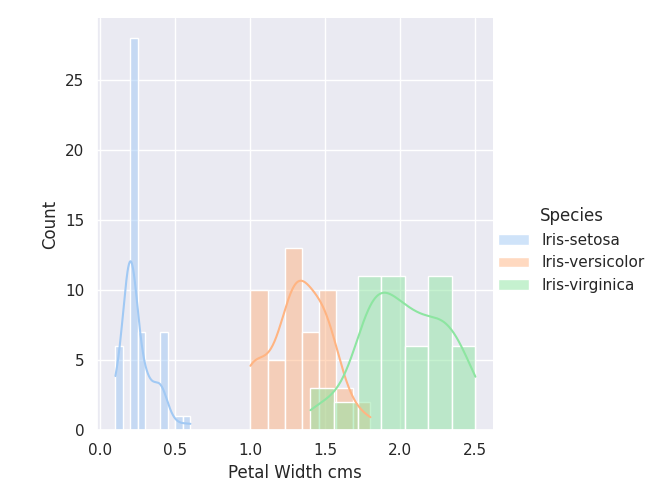
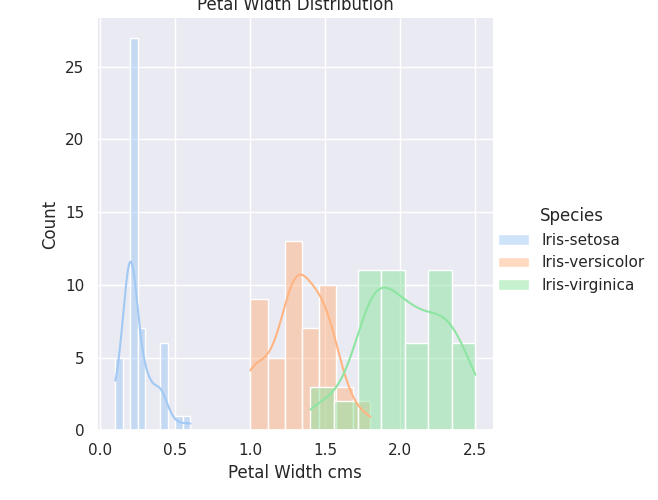
Boxplot outliers example

diff --git a/analysis.py b/analysis.py
@@ -2,6 +2,9 @@
 # Author: Sean Humphreys
 # Script to read in and analyse the IRIS data set
 
+
+# # # # # Import Required Libraries # # # # #
+
 # import the pandas module used to read in the data set file as a data frame
 import pandas as pd
 # import plotly module used to create a table of the data for display in the README.md file
@@ -11,8 +14,17 @@ import seaborn as sns
 # import the matplotlib module used to plot data for visual representation
 import matplotlib.pyplot as plt
 import csv
+import numpy as np
+
+# # # # # Declare Global Variables # # # # #
 url = 'http://archive.ics.uci.edu/ml/machine-learning-databases/iris/iris.data' # declare a vairiable to define the
 # Iris Data Set URL
+
+# # # # # Set Themes # # # # #
+
+# Set Seaborn theme to use pastel colours
+sns.set_theme(context='notebook', style='darkgrid', palette='pastel', font='sans-serif', font_scale=1, color_codes=True,
+              rc=None)
 
 # # # # # Read in the data set set from URL # # # # #
 
@@ -25,6 +37,7 @@ iris = pd.read_csv(url, names=["Sepal Length cms", "Sepal Width cms", "Petal Len
 # print(iris) # validation check ? remove
 
 # # # # # Check source data quality # # # # #
+
 # The code in this section checks the quality of the source data
 
 # Define a variable to use the check for missing data using the isnull() method
@@ -113,14 +126,15 @@ fig4.write_image("images/tables/iris_data_set_full.png", scale=1)
 # # # # # Create & save box plots # # # # #
 # Reference - https://www.geeksforgeeks.org/exploratory-data-analysis-on-iris-dataset/
 
-# function to pass arguments to sns.boxplot
+
+# function to pass arguments to sns.boxplot method
+
 def graph(y):
     sns.boxplot(x="Species", y=y, data=iris)
 
 
 # plot size
 plt.figure(figsize=(10, 10))
-
 # Adding the subplot at the specified
 # grid position
 plt.subplot(221)
@@ -135,8 +149,40 @@ graph('Petal Length cms')
 plt.subplot(224)
 graph('Petal Width cms')
 
+
 # Save plot to file
-plt.savefig('images/plots/histograms/box_plots.png')
+plt.savefig('images/plots/box_plots/box_plots.png')
+plt.show()
+
+# # # # # Outliers Demo # # # # #
+outliers = sns.boxplot(x='Sepal Width cms', data=iris).set_title("Sepal Width Outliers")
+plt.savefig('images/plots/box_plots/outliers_box_plots.png')
+plt.show()
+
+# Define Q1 variable for numpy percentile method for the dataset column sepal width
+Q1 = np.percentile(iris['Sepal Width cms'], 25,
+                   method='midpoint')
+# Define Q1 variable for numpy percentile method for the dataset column sepal width
+Q3 = np.percentile(iris['Sepal Width cms'], 75,
+                   method='midpoint')
+IQR = Q3 - Q1
+
+# Upper bound
+upper = np.where(iris['Sepal Width cms'] >= (Q3 + 1.5 * IQR))
+
+# Lower bound
+lower = np.where(iris['Sepal Width cms'] <= (Q1 - 1.5 * IQR))
+
+# Removing the Outliers
+iris.drop(upper[0], inplace=True)
+iris.drop(lower[0], inplace=True)
+
+# print("New Shape: ", iris.shape) # validation test
+
+# plot box plot with outliers removed and save file
+sns.boxplot(x='Sepal Width cms', data=iris).set_title("Sepal Width Outliers Removed")
+plt.savefig('images/plots/box_plots/no_outliers_box_plots.png')
+plt.show()
 
 # # # # # Create & save histograms # # # # #
 
@@ -148,21 +194,21 @@ sns.set_theme(context='notebook', style='darkgrid', palette='pastel', font='sans
 plot = sns.FacetGrid(iris, hue="Species", height=5)
 # originally used distplot function but got message that it is being depreciated, when code was run, so used
 # histplot function instead - https://gist.github.com/mwaskom/de44147ed2974457ad6372750bbe5751 - accessed 30/03/2023
-plot.map(sns.histplot, "Sepal Length cms", kde=True).add_legend()
+plot.map(sns.histplot, "Sepal Length cms", kde=True).add_legend().set(title='Sepal Length Distribution')
 # save output to images folder - https://www.marsja.se/how-to-save-a-seaborn-plot-as-a-file-e-g-png-pdf-eps-tiff/
 # - accessed 30/03/2023
 plt.savefig('images/plots/histograms/sepal_length_histogram.png')
 
 plot = sns.FacetGrid(iris, hue="Species", height=5)
-plot.map(sns.histplot, "Sepal Width cms", kde=True).add_legend()
+plot.map(sns.histplot, "Sepal Width cms", kde=True).add_legend().set(title='Sepal Width Distribution')
 plt.savefig('images/plots/histograms/sepal_width_histogram.png')
 
 plot = sns.FacetGrid(iris, hue="Species", height=5)
-plot.map(sns.histplot, "Petal Length cms", kde=True).add_legend()
+plot.map(sns.histplot, "Petal Length cms", kde=True).add_legend().set(title='Petal Length Distribution')
 plt.savefig('images/plots/histograms/petal_length_histogram.png')
 
 plot = sns.FacetGrid(iris, hue="Species", height=5)
-plot.map(sns.histplot, "Petal Width cms", kde=True).add_legend()
+plot.map(sns.histplot, "Petal Width cms", kde=True).add_legend().set(title='Petal Width Distribution')
 plt.savefig('images/plots/histograms/petal_width_histogram.png')
 
 plt.show()

diff --git a/rough_work.py b/rough_work.py
@@ -15,37 +15,58 @@ import sklearn
 
 # download iris data and read it into a dataframe
 url = 'http://archive.ics.uci.edu/ml/machine-learning-databases/iris/iris.data'
-df = pd.read_csv(url, names=["Sepal Length cm", "Sepal Width cm", "Petal Length cm", "Petal Width cm", "Species"])
-# print(df)
-# df = pd.read_csv('iris.data', sep=',', names=["Sepal Length cm", "Sepal Width cm", "Petal Length cm",
-# "Petal Width cm", "Species"])
+iris = pd.read_csv(url, names=["Sepal Length cms", "Sepal Width cms", "Petal Length cms", "Petal Width cms", "Species"])
 
-# data = df.drop_duplicates(subset ="Species",)
-
-# print(df.value_counts("Species"))
-
-
-#sns.countplot(x='Species', data=df, )
-# plt.show()
 
 def graph(y):
-    sns.boxplot(x="Species", y=y, data=df)
+    sns.boxplot(x="Species", y=y, data=iris)
 
 
+# plot size
 plt.figure(figsize=(10, 10))
-
 # Adding the subplot at the specified
 # grid position
 plt.subplot(221)
-graph('Sepal Length cm')
+graph('Sepal Length cms')
 
 plt.subplot(222)
-graph('Sepal Width cm')
+graph('Sepal Width cms')
 
 plt.subplot(223)
-graph('Petal Length cm')
+graph('Petal Length cms')
 
 plt.subplot(224)
-graph('Petal Width cm')
+graph('Petal Width cms')
 
+
+# Save plot to file
+plt.savefig('images/plots/box_plots/box_plots.png')
+plt.show()
+
+# # # # # Outliers Demo # # # # #
+sns.boxplot(x='Sepal Width cms', data=iris).set_title("Sepal Width Outliers")
+
+
+# Define Q1 variable for numpy percentile method for the dataset column sepal width
+Q1 = np.percentile(iris['Sepal Width cms'], 25,
+                   method='midpoint')
+# Define Q1 variable for numpy percentile method for the dataset column sepal width
+Q3 = np.percentile(iris['Sepal Width cms'], 75,
+                   method='midpoint')
+IQR = Q3 - Q1
+
+# Upper bound
+upper = np.where(iris['Sepal Width cms'] >= (Q3 + 1.5 * IQR))
+
+# Lower bound
+lower = np.where(iris['Sepal Width cms'] <= (Q1 - 1.5 * IQR))
+
+# Removing the Outliers
+iris.drop(upper[0], inplace=True)
+iris.drop(lower[0], inplace=True)
+
+# print("New Shape: ", iris.shape) # validation test
+
+# plot box plot with outliers removed and save file
+sns.boxplot(x='Sepal Width cms', data=iris).set_title("Sepal Width Outliers Removed")
 plt.show()
